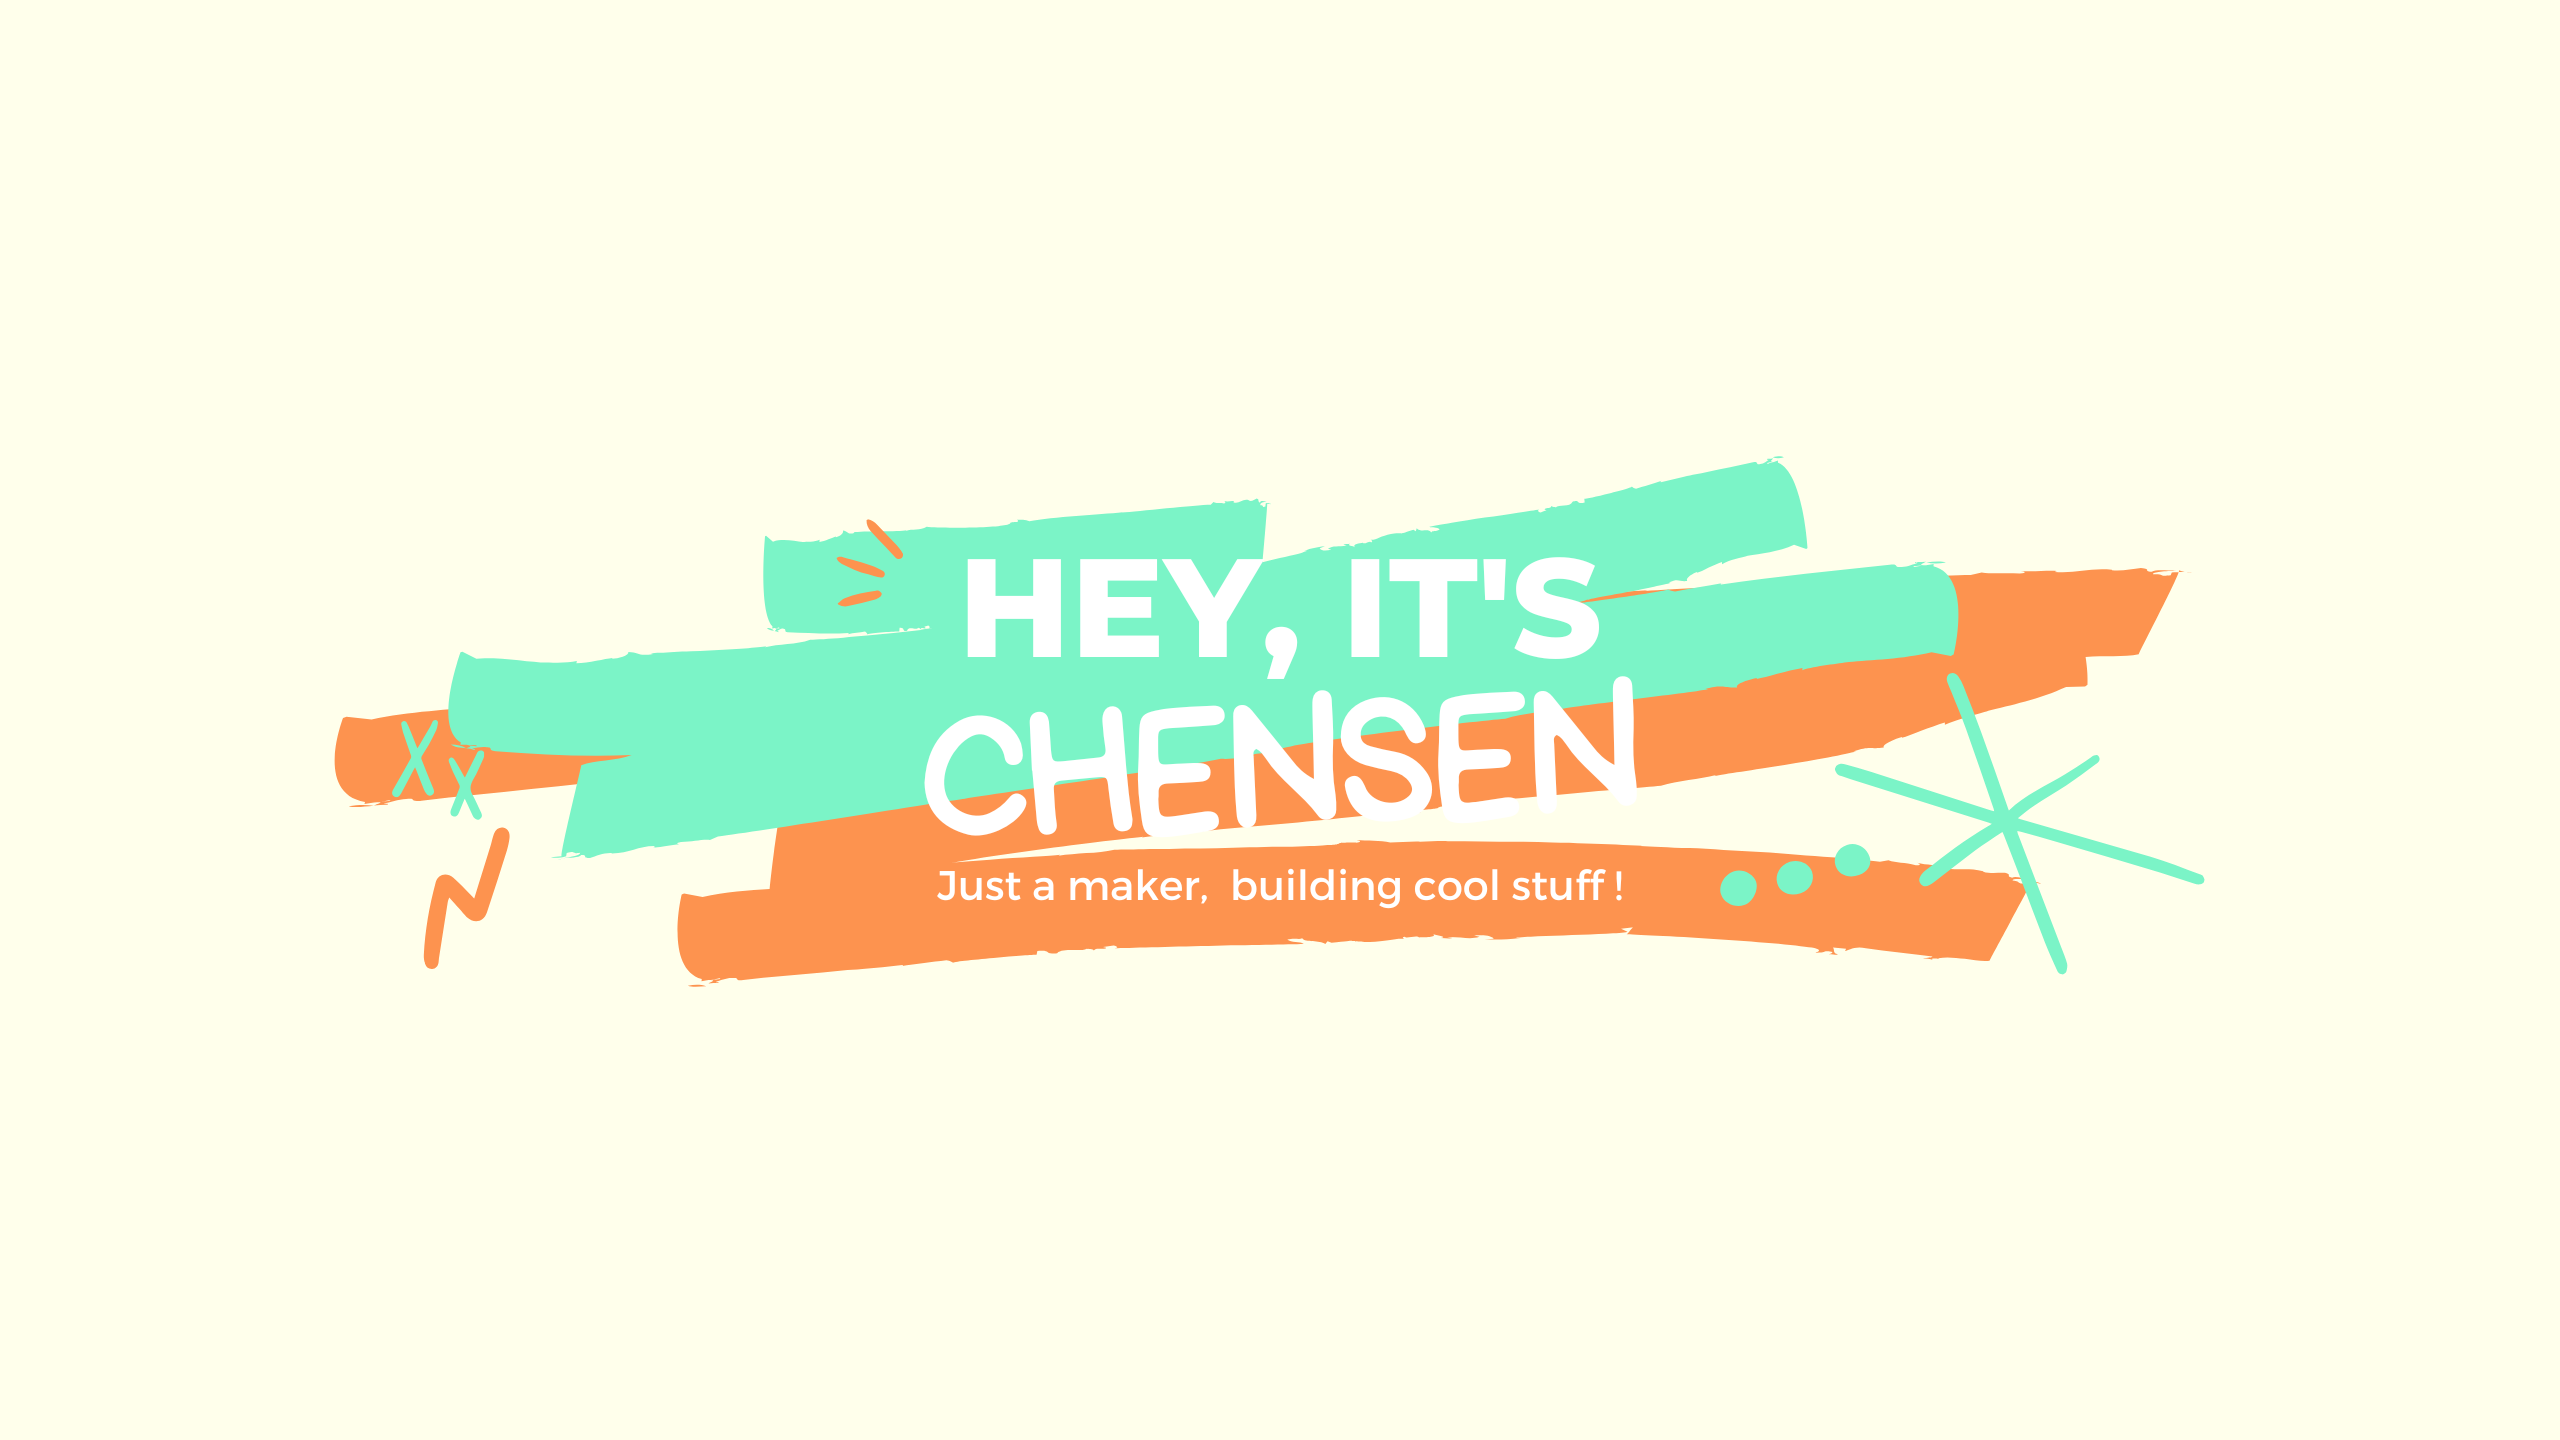
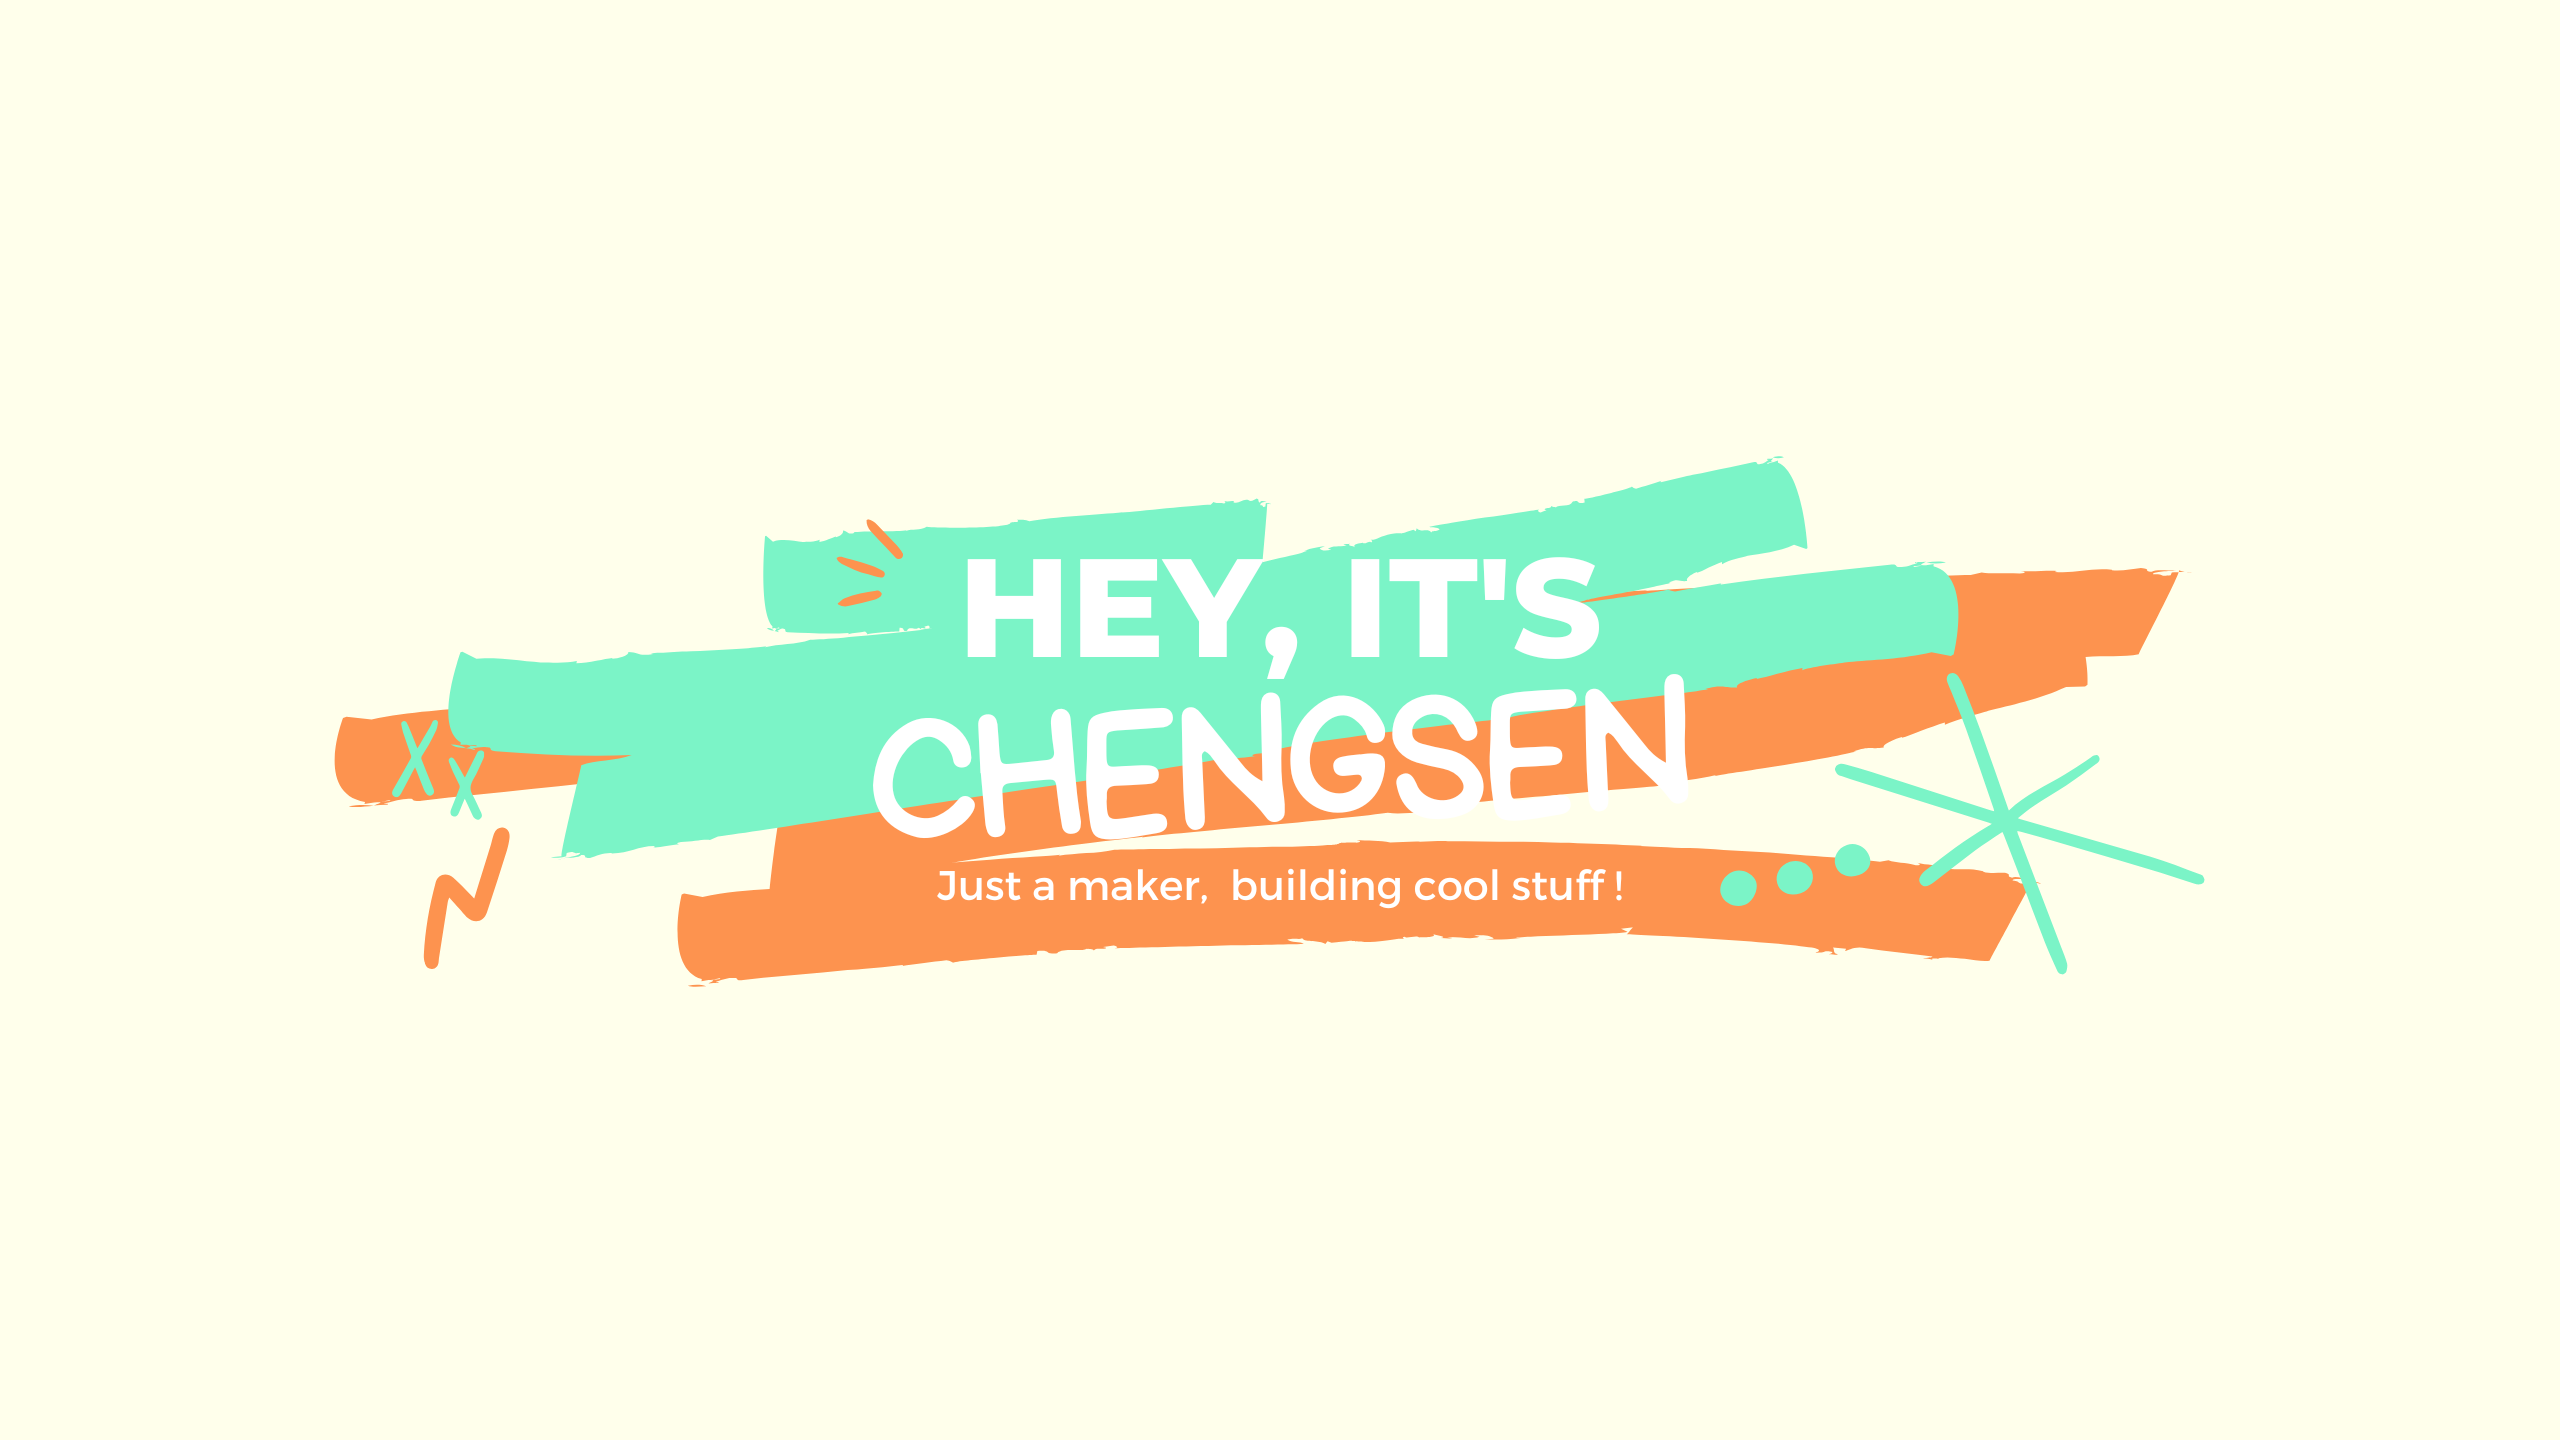
Typography and glassmorphism refinement
- Hero: progressive font sizes (text-3xl sm:text-4xl md:text-5xl)
- Hero: centered layout on mobile with responsive alignment
- Products: gradient overlay uses background color (fixes color seam)
- Products/Newsletter/About: dark mode glass opacity 4%→6-8%
- Side decorations: increased opacity for visibility behind glass
- About: unified max-w-5xl container, responsive paragraph size
- Global: unified paragraph line-height (1.7)

Changed region(s): [[0.3438, 0.4688, 0.6562, 0.5938]]

diff --git a/components/hero.tsx b/components/hero.tsx
@@ -18,7 +18,7 @@ export function Hero() {
 
       {/* Info Section — shifted up so avatar overlaps banner, text aligns at same level */}
       <div className="max-w-5xl mx-auto px-4 pb-12 -mt-12 md:-mt-14 relative z-10">
-        <div className="flex items-start md:items-end gap-4 md:gap-8">
+        <div className="flex flex-col items-center md:flex-row md:items-end gap-6 md:gap-8">
           {/* Avatar — right side on desktop (order-2) */}
           <div className="shrink-0 md:order-2">
             <div className="relative w-28 h-28 sm:w-36 sm:h-36 md:w-48 md:h-48 rounded-full bg-muted border-[3px] border-background overflow-hidden shadow-lg">
@@ -30,16 +30,16 @@ export function Hero() {
           </div>
 
           {/* Text — left on desktop (order-1) */}
-          <div className="flex-1 space-y-3 md:order-1 md:pb-4 min-w-0">
-            <h1 className="text-2xl md:text-5xl font-bold tracking-tight">
+          <div className="flex-1 space-y-3 md:order-1 md:pb-4 min-w-0 text-center md:text-left">
+            <h1 className="text-3xl sm:text-4xl md:text-5xl font-bold tracking-tight">
               {profile.name}
             </h1>
-            <p className="text-sm md:text-xl text-muted-foreground max-w-lg">
+            <p className="text-sm md:text-xl text-muted-foreground max-w-lg mx-auto md:mx-0">
               {profile.tagline} — {profile.bio}
             </p>
 
             {/* Dynamic Status */}
-            <div className="flex flex-col sm:flex-row items-start sm:items-center gap-2 sm:gap-4 text-sm text-muted-foreground">
+            <div className="flex flex-col sm:flex-row items-center gap-2 sm:gap-4 text-sm text-muted-foreground">
               <span className="flex items-center gap-2">
                 <span className="inline-block w-2 h-2 rounded-full bg-status-released animate-pulse" />
                 {profile.currentWork}
@@ -49,7 +49,7 @@ export function Hero() {
             </div>
 
             {/* CTAs — horizontal row, compact on mobile */}
-            <div className="flex items-center gap-3 pt-2">
+            <div className="flex items-center justify-center md:justify-start gap-3 pt-2">
               <a
                 href="#products"
                 className="inline-flex items-center gap-1.5 px-4 py-2 bg-primary text-primary-foreground rounded-lg text-sm font-medium hover:opacity-90 transition-opacity"

diff --git a/components/side-decorations.tsx b/components/side-decorations.tsx
@@ -39,7 +39,7 @@ export function SideDecorations() {
           style={{ 
             top: `${250 + scrollY * 0.05}px`,
             transform: `rotate(${scrollY * 0.02}deg)`,
-            opacity: 0.3
+            opacity: 0.5
           }}
         />
         <div 
@@ -47,7 +47,7 @@ export function SideDecorations() {
           style={{ 
             top: `${650 + scrollY * 0.03}px`,
             transform: `rotate(${45 + scrollY * 0.015}deg)`,
-            opacity: 0.4
+            opacity: 0.6
           }}
         />
       </div>
@@ -76,7 +76,7 @@ export function SideDecorations() {
           className="absolute right-6 md:right-10 w-8 h-8 border border-border/30 rounded-full"
           style={{ 
             top: `${300 + scrollY * 0.04}px`,
-            opacity: 0.25
+            opacity: 0.4
           }}
         />
         <div 
@@ -84,14 +84,14 @@ export function SideDecorations() {
           style={{ 
             top: `${700 + scrollY * 0.02}px`,
             transform: `rotate(${-scrollY * 0.02}deg)`,
-            opacity: 0.5
+            opacity: 0.6
           }}
         />
       </div>
 
       {/* Background Gradient Orbs */}
       <div 
-        className="absolute w-96 h-96 rounded-full blur-3xl opacity-[0.03]"
+        className="absolute w-96 h-96 rounded-full blur-3xl opacity-[0.06]"
         style={{
           background: 'radial-gradient(circle, var(--primary) 0%, transparent 70%)',
           left: '-10%',
@@ -99,7 +99,7 @@ export function SideDecorations() {
         }}
       />
       <div 
-        className="absolute w-80 h-80 rounded-full blur-3xl opacity-[0.03]"
+        className="absolute w-80 h-80 rounded-full blur-3xl opacity-[0.06]"
         style={{
           background: 'radial-gradient(circle, var(--accent) 0%, transparent 70%)',
           right: '-5%',

diff --git a/components/about.tsx b/components/about.tsx
@@ -4,7 +4,7 @@ import { profile } from '@/lib/data'
 export function About() {
   return (
     <section id="about" className="py-16 md:py-24 px-4">
-      <div className="max-w-6xl mx-auto">
+      <div className="max-w-5xl mx-auto">
         <h2 className="text-2xl md:text-3xl font-bold mb-8">
           About <span className="text-muted-foreground font-normal">/ 关于我</span>
         </h2>
@@ -15,7 +15,7 @@ export function About() {
             {/* Philosophy */}
             <div>
               <h3 className="font-semibold text-lg mb-3">技术哲学</h3>
-              <p className="text-muted-foreground leading-relaxed">
+              <p className="text-sm md:text-base text-muted-foreground leading-relaxed">
                 {profile.philosophy}
               </p>
             </div>
@@ -56,7 +56,7 @@ export function About() {
                   href={profile.social.github}
                   target="_blank"
                   rel="noopener noreferrer"
-                  className="p-3 rounded-lg bg-card border border-border text-muted-foreground hover:text-foreground hover:border-primary/50 transition-colors"
+                  className="p-3 rounded-lg bg-white/60 dark:bg-white/[0.08] backdrop-blur-sm border border-white/50 dark:border-white/[0.08] text-muted-foreground hover:text-foreground hover:border-primary/50 transition-colors"
                   aria-label="GitHub"
                 >
                   <Github className="h-5 w-5" />
@@ -65,14 +65,14 @@ export function About() {
                   href={profile.social.twitter}
                   target="_blank"
                   rel="noopener noreferrer"
-                  className="p-3 rounded-lg bg-card border border-border text-muted-foreground hover:text-foreground hover:border-primary/50 transition-colors"
+                  className="p-3 rounded-lg bg-white/60 dark:bg-white/[0.08] backdrop-blur-sm border border-white/50 dark:border-white/[0.08] text-muted-foreground hover:text-foreground hover:border-primary/50 transition-colors"
                   aria-label="Twitter / X"
                 >
                   <Twitter className="h-5 w-5" />
                 </a>
                 <a
                   href={`mailto:${profile.social.email}`}
-                  className="p-3 rounded-lg bg-card border border-border text-muted-foreground hover:text-foreground hover:border-primary/50 transition-colors"
+                  className="p-3 rounded-lg bg-white/60 dark:bg-white/[0.08] backdrop-blur-sm border border-white/50 dark:border-white/[0.08] text-muted-foreground hover:text-foreground hover:border-primary/50 transition-colors"
                   aria-label="Email"
                 >
                   <Mail className="h-5 w-5" />

diff --git a/components/products.tsx b/components/products.tsx
@@ -35,13 +35,13 @@ function ProductCard({ project }: { project: Project }) {
   return (
     <article
       className={cn(
-        'group relative bg-card rounded-xl overflow-hidden border border-border',
+        'group relative bg-white/60 dark:bg-white/[0.06] backdrop-blur-xl rounded-xl overflow-hidden border border-white/50 dark:border-white/[0.08]',
         'transition-all duration-300 hover:-translate-y-1 hover:shadow-xl hover:border-primary/30',
         isMain && 'md:col-span-2'
       )}
     >
       {/* Image */}
-      <div className={cn('relative overflow-hidden', isMain ? 'h-48 md:h-56' : 'h-40')}>
+      <div className={cn('relative overflow-hidden -mb-px', isMain ? 'h-48 md:h-56' : 'h-40')}>
         <Image
           src={project.image || '/placeholder.svg?height=200&width=300'}
           alt={project.title}
@@ -49,7 +49,7 @@ function ProductCard({ project }: { project: Project }) {
           className="object-cover transition-transform duration-500 group-hover:scale-105"
         />
         {/* Gradient Overlay */}
-        <div className="absolute inset-0 bg-gradient-to-t from-card/80 to-transparent" />
+        <div className="absolute inset-0 bg-gradient-to-t from-background/85 dark:from-[#1A1A1A]/85 to-transparent" />
         
         {/* Status Badge */}
         <div className="absolute top-3 right-3">

diff --git a/app/globals.css b/app/globals.css
@@ -102,4 +102,7 @@
   body {
     @apply bg-background text-foreground;
   }
+  p {
+    line-height: 1.7;
+  }
 }

diff --git a/components/newsletter.tsx b/components/newsletter.tsx
@@ -21,7 +21,7 @@ export function Newsletter() {
   return (
     <section className="py-16 md:py-24 px-4">
       <div className="max-w-xl mx-auto">
-        <div className="flex flex-col items-center text-center gap-4 p-6 sm:p-8 bg-card border border-border rounded-2xl">
+        <div className="flex flex-col items-center text-center gap-4 p-6 sm:p-8 bg-white/60 dark:bg-white/[0.06] backdrop-blur-xl border border-white/50 dark:border-white/[0.08] rounded-2xl">
           {/* Icon */}
           <div className="w-12 h-12 bg-primary/10 rounded-full flex items-center justify-center">
             <Mail className="h-6 w-6 text-primary" />